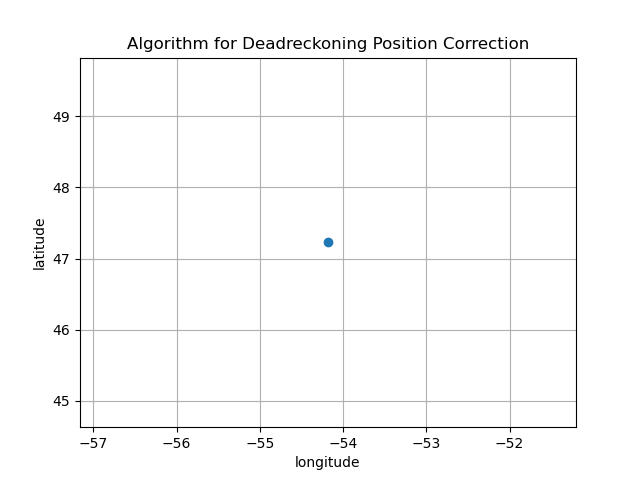
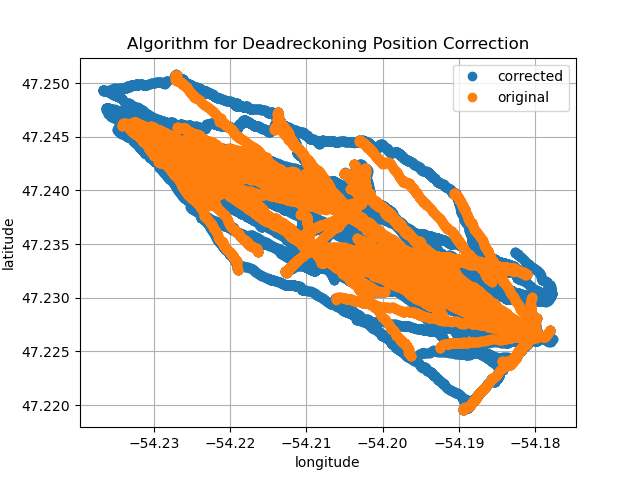
Fixed Deadreckoning Python script

diff --git a/glider_processing_scripts/gliderDR.py b/glider_processing_scripts/gliderDR.py
@@ -7,18 +7,13 @@ df = pd.read_csv('glider_334_data.csv')
 column_names = list(df.columns.values)
 
 # print(column_names)
-
 lon  = df.lon.to_numpy()
-#print(df[['lat']])
-# lon = df[['lat']]
 lat   = df.lat.to_numpy()
 timestamp = df.time.to_numpy()
 x_dr_state = df.dr_state.to_numpy()
 gps_lon = df.gps_lon.to_numpy()
 gps_lat = df.gps_lat.to_numpy()
 
-# print(np.argwhere(np.isnan(x_dr_state)))
-# print(x_dr_state)
 
 # interpolate all nan's in glider x_dr_state using "previous"
 not_nan = ~np.isnan(x_dr_state)
@@ -35,76 +30,66 @@ x_dr_state = x_dr_state
 i_si     = np.argwhere( np.diff (x_dr_state**2)!=0)
 i_start = np.argwhere(np.diff( x_dr_state[i_si]**2, n=2,axis=0 )==18)
 i_start = i_si[i_start[:,0]]
-# print(i_start)
-
+i_start = i_start[:,0]
 # print(np.isnan(lon[i_start[1]]))
 for ki in range(len(i_start) ):
     while np.isnan(lon[i_start[ki] ] ) :
        i_start[ki] = i_start[ki] +1
   
-# print(i_start)
 # gps location at surface
 # transition x_dr_state from 2->3
- 
+
+
 i_end  = np.argwhere(np.diff(x_dr_state**2,n=1,axis=0)==5)
-i_end  = i_end[:,0]
-# print(i_end)
-    
+i_end  = i_end[:,0]-1
 for ki in range(len(i_end)):
     while (np.isnan(lon[i_end[ki]]) and np.isnan(gps_lon[i_end[ki]] ) ) :
         i_end[ki] = i_end[ki] +1
             
-# print(i_end)
-
+            
+            
 
 # DR location after surfacing
 # transition from 1->2
-
-
 i_mid = np.argwhere(np.diff(x_dr_state**2,n=1,axis=0)==3)
 i_mid = i_mid[:,0]
-# print(i_mid)
 for ki in range(len(i_mid)):
 	while np.isnan(DM2D(lon[i_mid[ki]] ) ):
-		# print(i_mid[ki])
 		i_mid[ki] = i_mid[ki] -1
 
-# print(i_mid)
+
 
 t_start = timestamp[i_start]
-
-lon_dif = DM2D(lon[i_end]) - DM2D(lon[i_mid])
-lat_dif  = DM2D(lat[i_end]) - DM2D(lat[ i_mid])
-t_dif    =  timestamp[i_mid] - timestamp[i_start]
-    
+lon_dif=DM2D(lon[i_end]) - DM2D(lon[i_mid])
+lat_dif =DM2D(lat[i_end]) - DM2D(lat[ i_mid])
+t_dif=timestamp[i_mid]-timestamp[i_start]
 vlonDD = lon_dif / t_dif
 vlatDD  = lat_dif / t_dif
 loncDD = DM2D(lon[0, ])
 latcDD  = DM2D(lat[0, ])
-ap = 1
 
-# print(latcDD)
-
+ap = 0
 for i in range(len(i_start)):
-	a = i_start[i] + np.argwhere(~np.isnan( lon[np.arange(i_start[i],i_mid[i])] ))
+	idtemp=np.arange(i_start[i],i_mid[i]+1)
+	a = i_start[i] + np.argwhere(~np.isnan(lon[idtemp]))
 	ap = np.vstack((ap, a))
 	ti = timestamp[a] - timestamp[a[0]]
 	loncDD = np.vstack((loncDD.reshape(-1,1) ,(DM2D(lon[a]) + ti*vlonDD[i]).reshape(-1,1)  ))
 	latcDD  = np.vstack((latcDD.reshape(-1,1)  ,(DM2D(lat[a] ) + ti*vlatDD[i] ).reshape(-1,1)  ))
-
-
 
 lonDD = DM2D(lon[ap])
 latDD  = DM2D(lat[ap])
 gps_lonDD = DM2D(gps_lon[1:].reshape(-1,1))
 gps_latDD  = DM2D(gps_lat[1:].reshape(-1,1))
 
-
+#
 fig, ax = plt.subplots()
-ax.plot(loncDD,latcDD,'o')
+ax.plot(loncDD,latcDD,'o',label='corrected')
+ax.plot(lonDD,latDD,'o',label='original')
 ax.set(xlabel='longitude', ylabel='latitude',
        title='Algorithm for Deadreckoning Position Correction')
 ax.grid()
+ax.legend()
 
 fig.savefig("DRtest.png")
 plt.show()

diff --git a/matlab_reference_code/MATLAB Scripts/gliderDR_testMATLAB.m b/matlab_reference_code/MATLAB Scripts/gliderDR_testMATLAB.m
@@ -1,0 +1,35 @@
+
+opts = delimitedTextImportOptions("NumVariables", 6);
+
+% Specify range and delimiter
+opts.DataLines = [2, Inf];
+opts.Delimiter = ",";
+
+% Specify column names and types
+opts.VariableNames = ["time", "lat", "lon", "dr_state", "gps_lat", "gps_lon"];
+opts.VariableTypes = ["double", "double", "double", "double", "double", "double"];
+
+% Specify file level properties
+% opts.ExtraColumnsRule = "ignore";
+% opts.EmptyLineRule = "read";
+
+% Import the data
+dat = readtable("glider_processing_scripts/glider_334_data.csv", opts);
+
+glider.time=dat.time;
+glider.lat=dat.lat;
+glider.lon=dat.lon;
+glider.dr_state=dat.dr_state;
+glider.gps_lat=dat.gps_lat;
+glider.gps_lon=dat.gps_lon;
+
+clear dat opts
+[glider , ap] = correctGliderDR2(glider);
+
+figure; hold on
+plot(glider.loncDD,glider.latcDD,'.') % corrected glider DR positions
+plot(glider.lonDD,glider.latDD,'.')   % original glider DR positions
+legend('corrected','original')
+title('Unit\_334 Nov 1 - 7, Deploymnent Placentia Bay')
+save_figure(gcf,'DRTestMatlab',[7.5 5],'.png','300')
+
